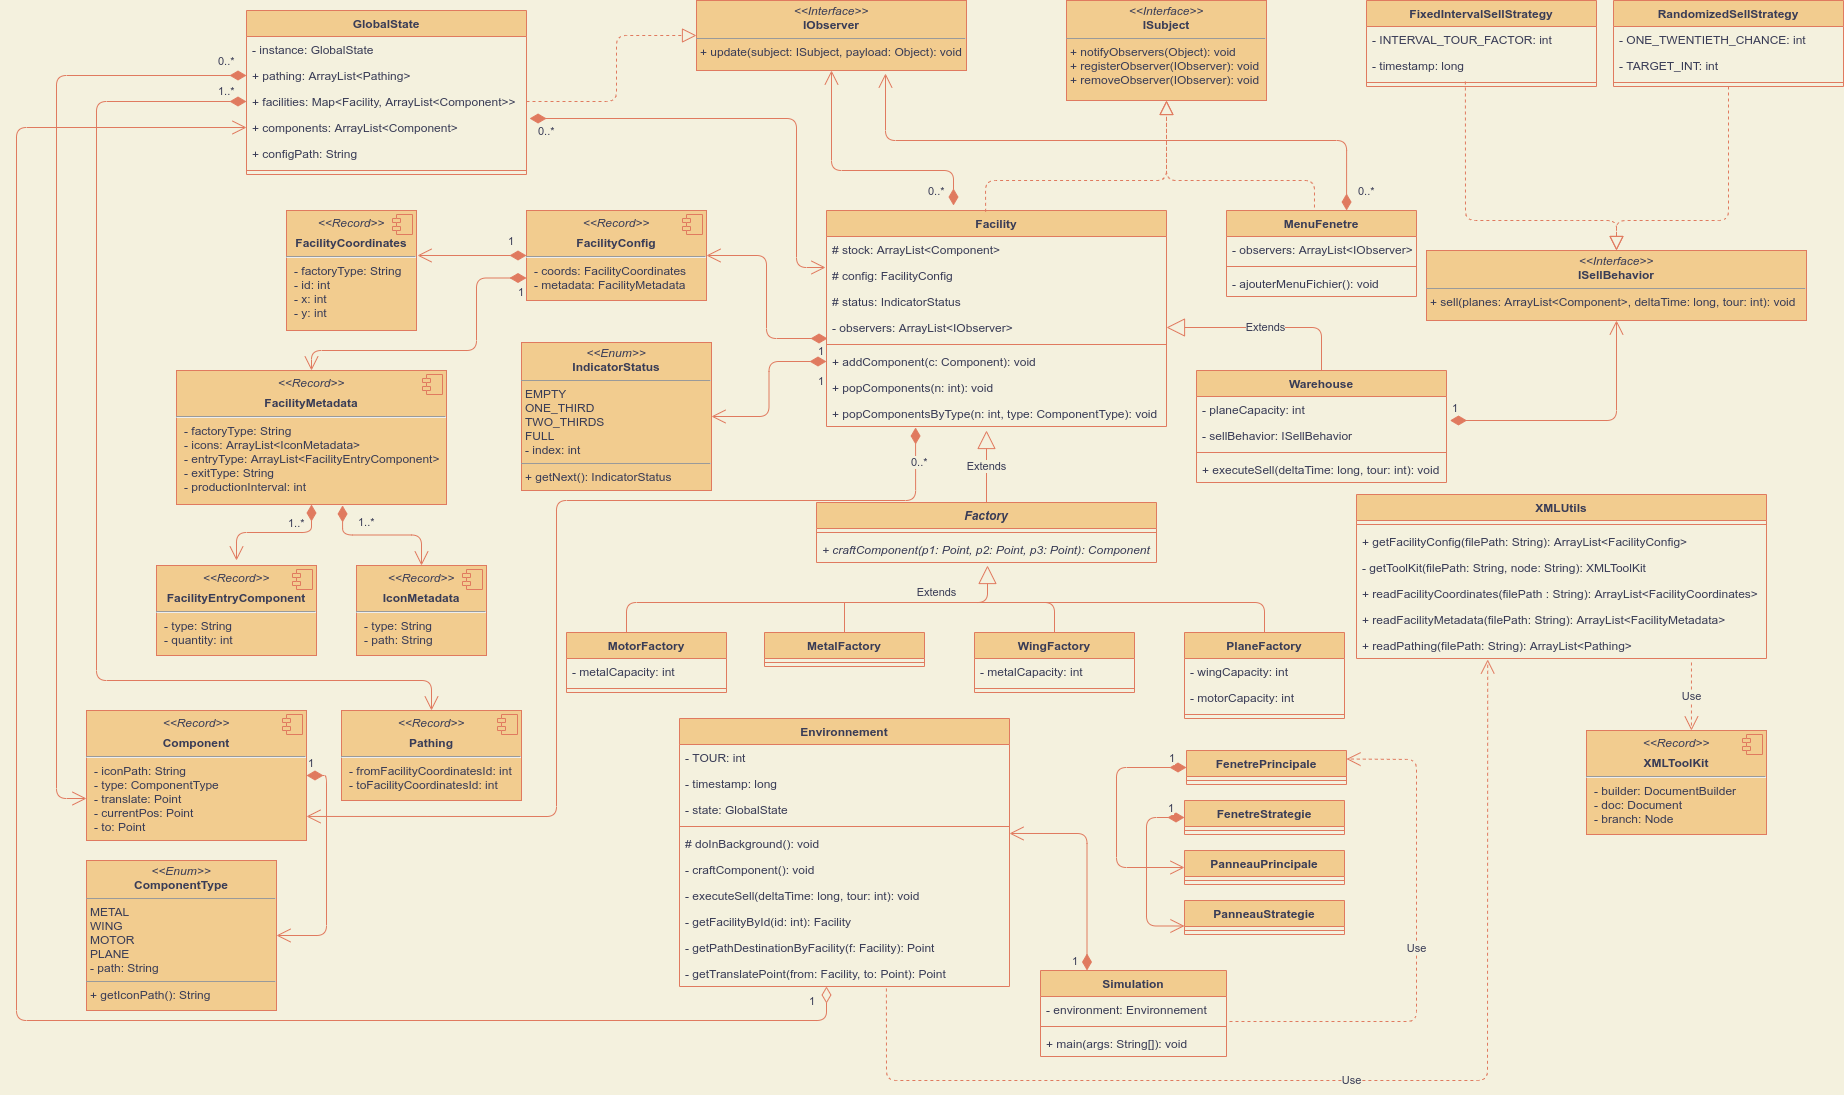
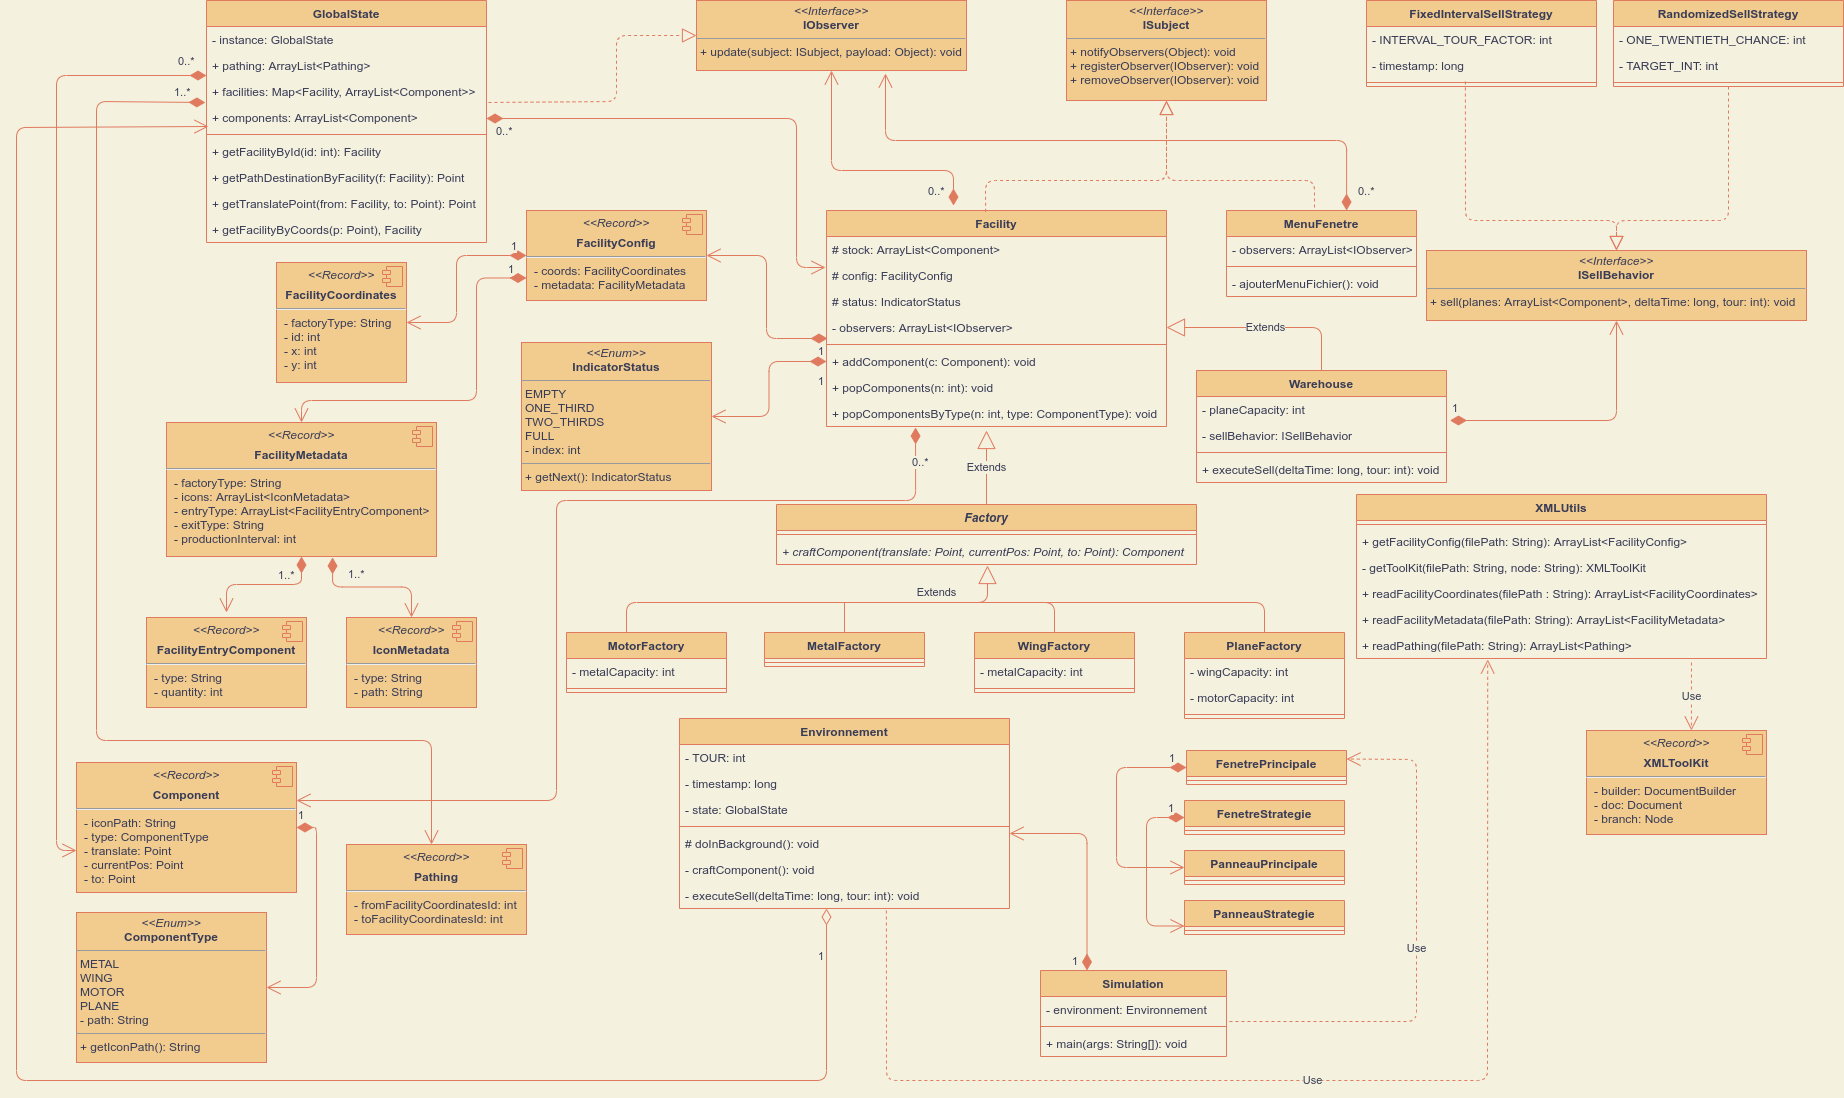
Moved facilities queries to GlobalState

diff --git a/lab1-simulation/src/simulation/Environnement.java b/lab1-simulation/src/simulation/Environnement.java
@@ -165,9 +165,9 @@ public class Environnement extends SwingWorker<Object, String> {
 
             if(f instanceof MetalFactory factory) {
                 if(currentProductionStatus.getNext() == null) {
-                    Point destination = getPathDestinationByFacility(f);
+                    Point destination = state.getPathDestinationByFacility(f);
                     Point from = new Point(f.getConfig().coords().x(), f.getConfig().coords().y());
-                    Point translate = getTranslatePoint(f, destination);
+                    Point translate = state.getTranslatePoint(f, destination);
 
                     state.components.add(factory.craftComponent(translate, from, destination));
                     f.setStatus(IndicatorStatus.EMPTY);
@@ -176,9 +176,9 @@ public class Environnement extends SwingWorker<Object, String> {
                 }
             } else if(f instanceof MotorFactory factory) {
                 if(currentProductionStatus.getNext() == null) {
-                    Point destination = getPathDestinationByFacility(f);
+                    Point destination = state.getPathDestinationByFacility(f);
                     Point from = new Point(f.getConfig().coords().x(), f.getConfig().coords().y());
-                    Point translate = getTranslatePoint(f, destination);
+                    Point translate = state.getTranslatePoint(f, destination);
 
                     state.components.add(factory.craftComponent(translate, from, destination));
                     factory.popComponents(factory.getMetalCapacity());
@@ -192,9 +192,9 @@ public class Environnement extends SwingWorker<Object, String> {
                 }
             } else if(f instanceof WingFactory factory) {
                 if(currentProductionStatus.getNext() == null) {
-                    Point destination = getPathDestinationByFacility(f);
+                    Point destination = state.getPathDestinationByFacility(f);
                     Point from = new Point(f.getConfig().coords().x(), f.getConfig().coords().y());
-                    Point translate = getTranslatePoint(f, destination);
+                    Point translate = state.getTranslatePoint(f, destination);
 
                     state.components.add(factory.craftComponent(translate, from, destination));
                     factory.popComponents(factory.getMetalCapacity());
@@ -208,9 +208,9 @@ public class Environnement extends SwingWorker<Object, String> {
                 }
             } else if(f instanceof PlaneFactory factory) {
                 if(currentProductionStatus.getNext() == null) {
-                    Point destination = getPathDestinationByFacility(f);
+                    Point destination = state.getPathDestinationByFacility(f);
                     Point from = new Point(f.getConfig().coords().x(), f.getConfig().coords().y());
-                    Point translate = getTranslatePoint(f, destination);
+                    Point translate = state.getTranslatePoint(f, destination);
 
                     state.components.add(factory.craftComponent(translate, from, destination));
 
@@ -262,61 +262,5 @@ public class Environnement extends SwingWorker<Object, String> {
                 f.setStatus(status);
             }
         }
-    }
-
-    /**
-     * Retourne une instance de {@link Facility} basée sur l'identifiant donné
-     * @param id Identifiant de l'instance de {@link Facility}
-     * @return Instance de {@link Facility}
-     */
-    private Facility getFacilityById(int id) {
-        return state.facilities
-                .keySet()
-                .stream()
-                .filter(x -> x.getConfig().coords().id() == id)
-                .findFirst()
-                .get();
-    }
-
-    /**
-     * Retourne l'instance de {@link Facility} de destination en fonction de l'instance de {@link Facility} de départ
-     * @param f Instance de {@link Facility} de départ
-     * @return Instance de {@link Facility} de destination
-     */
-    private Point getPathDestinationByFacility(Facility f) {
-        var path = state.pathing.stream()
-                .filter(x -> x.fromFacilityCoordinatesId() == f.getConfig().coords().id())
-                .findFirst()
-                .get();
-
-        var destinationFacility = getFacilityById(path.toFacilityCoordinatesId());
-
-        var x = destinationFacility.getConfig()
-                .coords()
-                .x();
-
-        var y = destinationFacility.getConfig()
-                .coords()
-                .y();
-
-        return new Point(x, y);
-    }
-
-    /**
-     * Retourne le facteur par lequel un composant se déplace dans le plan
-     * @param from Instance de {@link Facility} de départ
-     * @param to Coordonnées Point de destination
-     * @return Facteur par lequel un composant se déplace dans le plan
-     */
-    private Point getTranslatePoint(Facility from, Point to) {
-        int x, y;
-
-        int deltaX = to.x - from.getConfig().coords().x();
-        int deltaY = to.y - from.getConfig().coords().y();
-
-        x = Integer.compare(deltaX, 0);
-        y = Integer.compare(deltaY, 0);
-
-        return new Point(x, y);
     }
 }

diff --git a/lab1-simulation/src/network/GlobalState.java b/lab1-simulation/src/network/GlobalState.java
@@ -40,6 +40,7 @@ import org.xml.sax.SAXException;
 import simulation.MenuFenetre;
 
 import javax.xml.parsers.ParserConfigurationException;
+import java.awt.*;
 import java.io.IOException;
 import java.util.*;
 
@@ -165,5 +166,81 @@ public class GlobalState implements IObserver {
         }
 
         return map;
+    }
+
+    /**
+     * Retourne une instance de {@link Facility} basée sur l'identifiant donné
+     * @param id Identifiant de l'instance de {@link Facility}
+     * @return Instance de {@link Facility}
+     */
+    public Facility getFacilityById(int id) {
+        return facilities
+                .keySet()
+                .stream()
+                .filter(x -> x.getConfig().coords().id() == id)
+                .findFirst()
+                .get();
+    }
+
+    /**
+     * Retourne l'instance de {@link Facility} de destination en fonction de l'instance de {@link Facility} de départ
+     * @param f Instance de {@link Facility} de départ
+     * @return Instance de {@link Facility} de destination
+     */
+    public Point getPathDestinationByFacility(Facility f) {
+        var path = pathing.stream()
+                .filter(x -> x.fromFacilityCoordinatesId() == f.getConfig().coords().id())
+                .findFirst()
+                .get();
+
+        var destinationFacility = getFacilityById(path.toFacilityCoordinatesId());
+
+        var x = destinationFacility.getConfig()
+                .coords()
+                .x();
+
+        var y = destinationFacility.getConfig()
+                .coords()
+                .y();
+
+        return new Point(x, y);
+    }
+
+    /**
+     * Retourne le facteur par lequel un composant se déplace dans le plan
+     * @param from Instance de {@link Facility} de départ
+     * @param to Coordonnées Point de destination
+     * @return Facteur par lequel un composant se déplace dans le plan
+     */
+    public Point getTranslatePoint(Facility from, Point to) {
+        int x, y;
+
+        int deltaX = to.x - from.getConfig().coords().x();
+        int deltaY = to.y - from.getConfig().coords().y();
+
+        x = Integer.compare(deltaX, 0);
+        y = Integer.compare(deltaY, 0);
+
+        return new Point(x, y);
+    }
+
+    /**
+     * Fonction qui retourne l'instance de {@link Facility} en fonction du point donné
+     * @param p Point de l'instance de {@link Facility} voulu
+     * @return Instance de {@link Facility}
+     */
+    public Facility getFacilityByCoords(Point p) {
+        return facilities
+                .keySet()
+                .stream()
+                .filter(x -> {
+                    int Fx = x.getConfig().coords().x();
+                    int Fy = x.getConfig().coords().y();
+
+                    var facilityCoords = new Point(Fx, Fy);
+                    return facilityCoords.equals(p);
+                })
+                .findFirst()
+                .get();
     }
 }

diff --git a/lab1-simulation/src/simulation/PanneauPrincipal.java b/lab1-simulation/src/simulation/PanneauPrincipal.java
@@ -95,20 +95,6 @@ public class PanneauPrincipal extends JPanel {
     }
 
     /**
-     * Fonction qui retourne l'instance {@link Facility} en fonction de l'identifiant donné
-     * @param id L'identifiant de l'instance de {@link Facility}
-     * @return L'instance {@link Facility} en fonction de l'identifiant donné
-     */
-    private Facility getFacilityById(int id) {
-        return state.facilities
-                .keySet()
-                .stream()
-                .filter(x -> x.getConfig().coords().id() == id)
-                .findFirst()
-                .get();
-    }
-
-    /**
      * Fonction qui dessine les {@link Facility} du réseau
      * @param g Objet Graphique
      */
@@ -151,10 +137,10 @@ public class PanneauPrincipal extends JPanel {
     private void drawPathing(Graphics g) {
         if(state.pathing != null) {
             for(Pathing path : state.pathing) {
-                FacilityCoordinates from = getFacilityById(path.fromFacilityCoordinatesId())
+                FacilityCoordinates from = state.getFacilityById(path.fromFacilityCoordinatesId())
                         .getConfig()
                         .coords();
-                FacilityCoordinates to = getFacilityById(path.toFacilityCoordinatesId())
+                FacilityCoordinates to = state.getFacilityById(path.toFacilityCoordinatesId())
                         .getConfig()
                         .coords();
 
@@ -195,26 +181,6 @@ public class PanneauPrincipal extends JPanel {
     }
 
     /**
-     * Fonction qui retourne l'instance de {@link Facility} en fonction du point donné
-     * @param p Point de l'instance de {@link Facility} voulu
-     * @return Instance de {@link Facility}
-     */
-    private Facility getFacilityByCoords(Point p) {
-        return state.facilities
-                .keySet()
-                .stream()
-                .filter(x -> {
-                    int Fx = x.getConfig().coords().x();
-                    int Fy = x.getConfig().coords().y();
-
-                    var facilityCoords = new Point(Fx, Fy);
-                    return facilityCoords.equals(p);
-                })
-                .findFirst()
-                .get();
-    }
-
-    /**
      * Fonction qui modifie la position actuelle de chaque composant mobile en fonction de leur facteur de translation à chaque tour
      * @param c Instance de {@link Component}
      */
@@ -226,7 +192,7 @@ public class PanneauPrincipal extends JPanel {
         Point position = comp.currentPos();
 
         if(position.equals(comp.to())) {
-            var destinationFacility = getFacilityByCoords(comp.currentPos());
+            var destinationFacility = state.getFacilityByCoords(comp.currentPos());
             destinationFacility.addComponent(comp);
             state.components.remove(comp);
         } else {

diff --git a/lab1-simulation/src/network/facilities/Facility.java b/lab1-simulation/src/network/facilities/Facility.java
@@ -47,7 +47,7 @@ import java.util.HashMap;
  */
 public class Facility implements ISubject {
     /**
-     * Nombre de {@link Component} présents dans ce Facility
+     * Liste de {@link Component} présents dans ce Facility
      */
     protected ArrayList<Component> stock;
     /**
